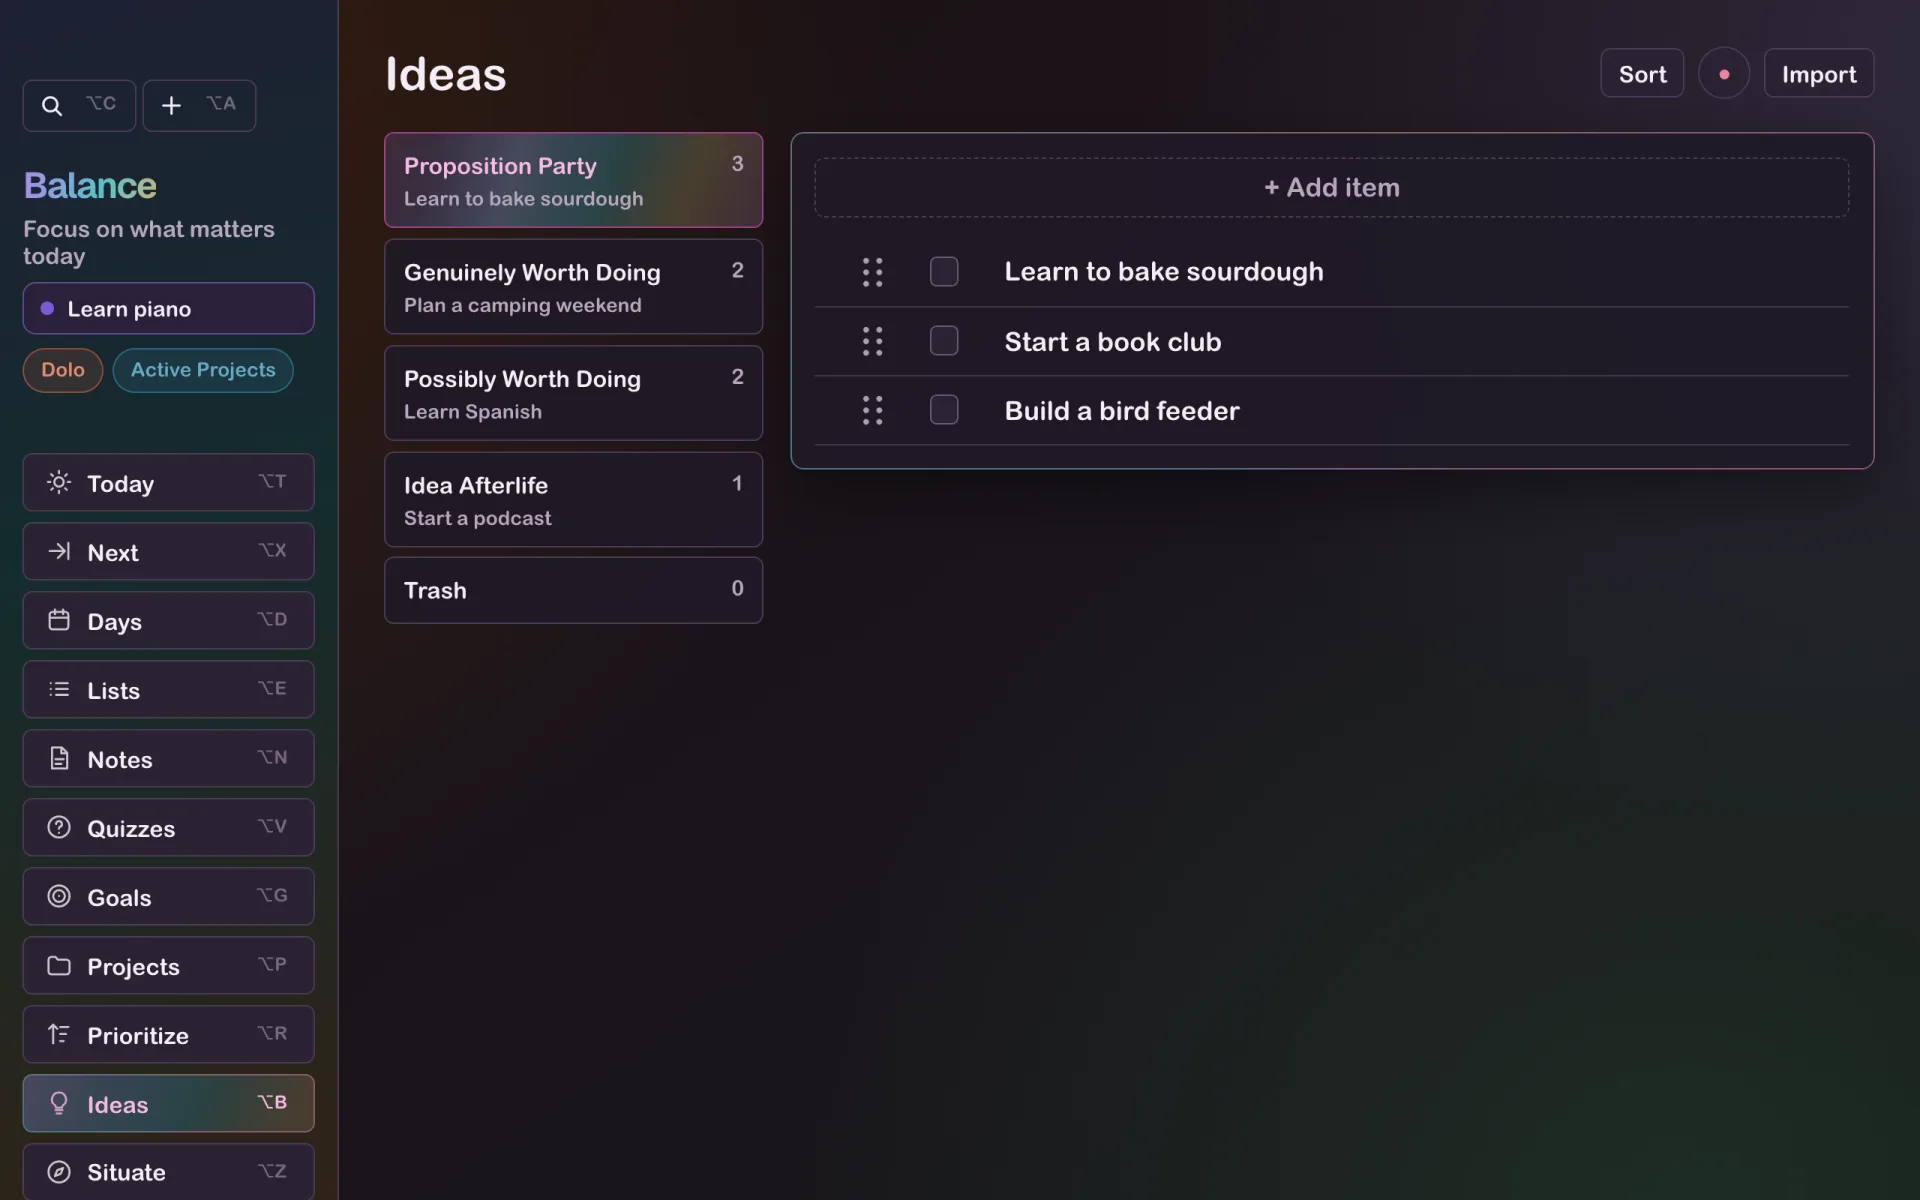
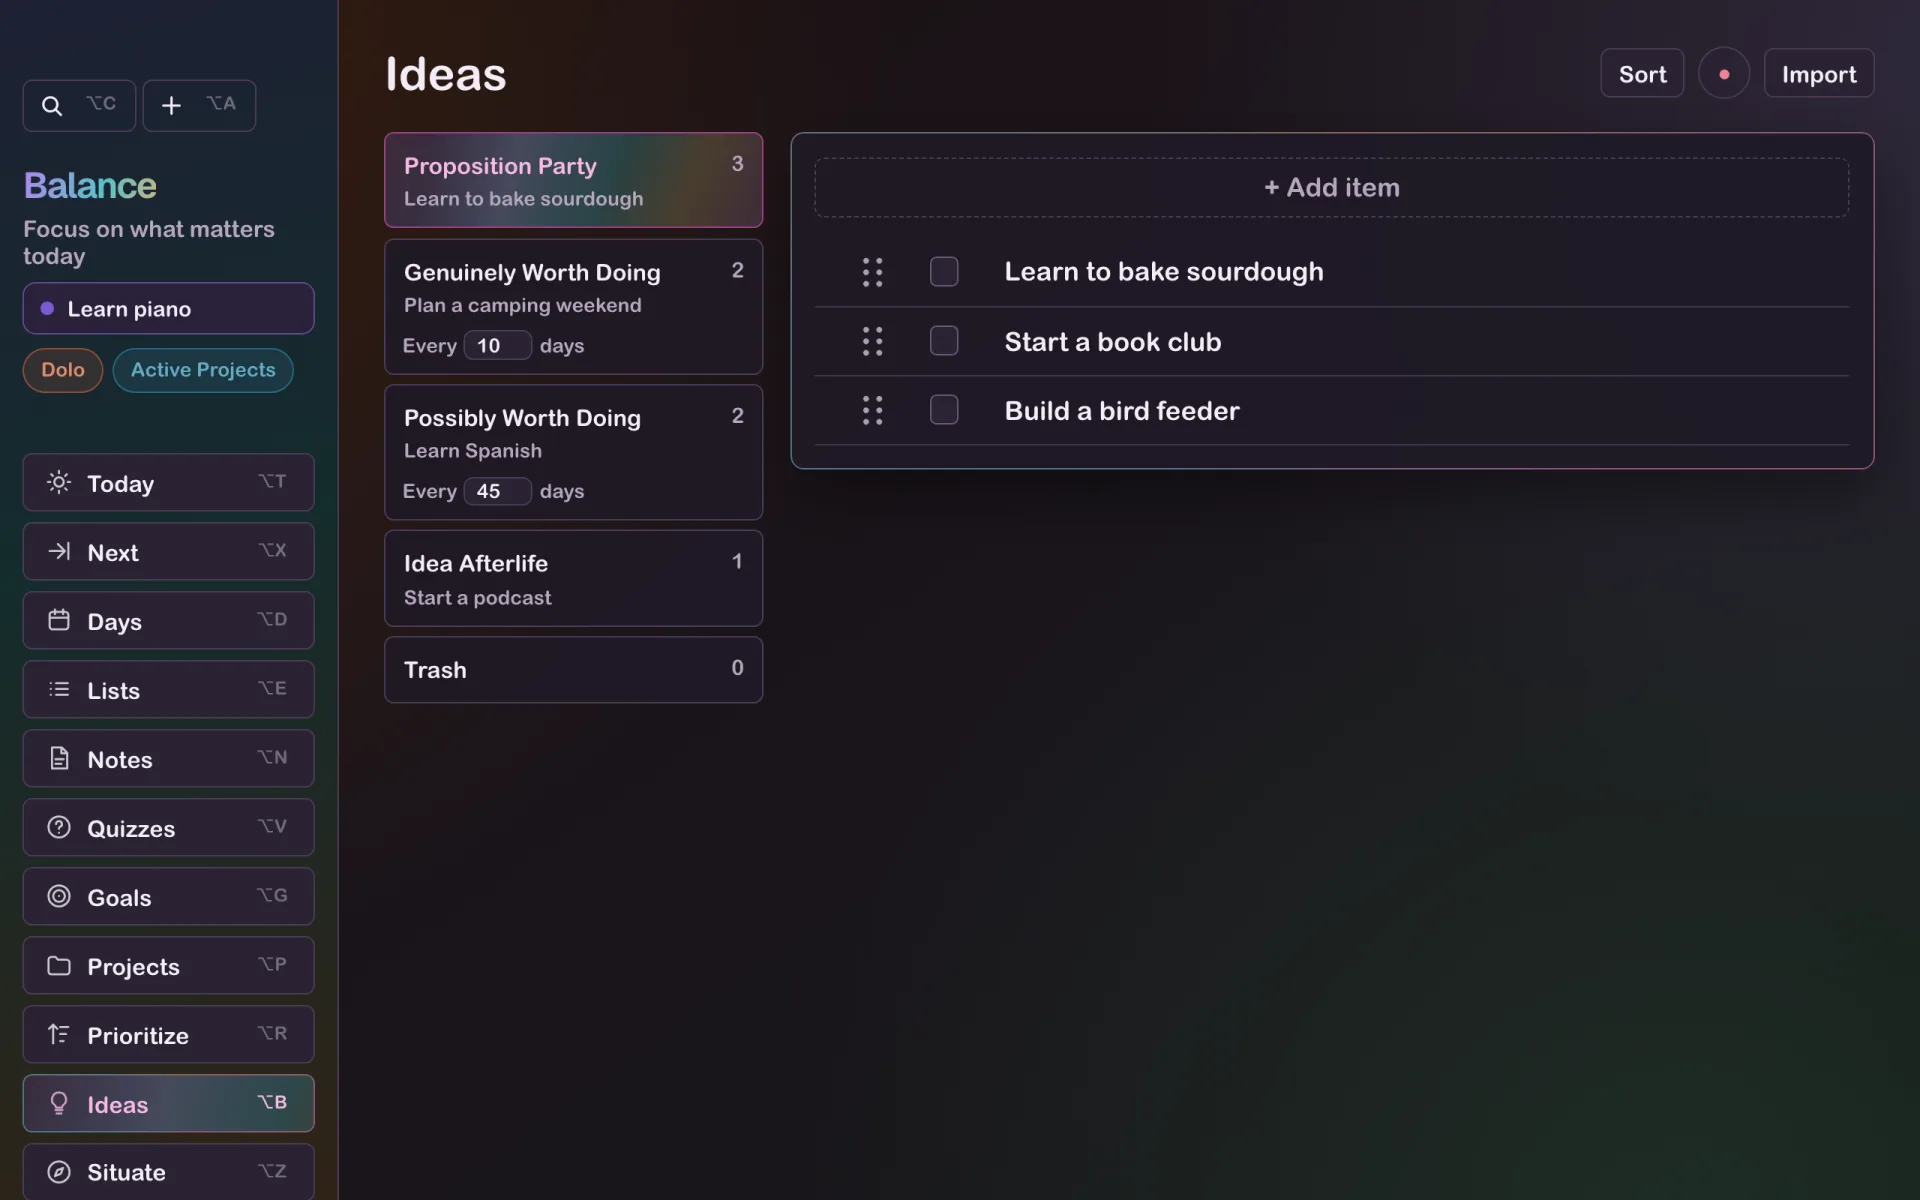
Set each scheduled idea review's cadence on its group card
Genuinely and Possibly Worth Doing cards carry an Every N days field
(1-365), stored as an optional reviewDays on the group record. Phones
show the open group's field in the page header, and the Review button
now reviews Possibly Worth Doing too.

diff --git a/src/lib/IdeasPanel.svelte b/src/lib/IdeasPanel.svelte
@@ -2,9 +2,10 @@
   import { onDestroy, tick } from 'svelte'
   import PlanItemEditor from './PlanItemEditor.svelte'
   import VoiceIdeaModal from './VoiceIdeaModal.svelte'
+  import IdeaReviewCadence from './IdeaReviewCadence.svelte'
   import { plannerStore } from './store'
   import { focusTaskBelow } from './taskCompletionFocus'
-  import { ideaUnlockDelay, findIdea, ideaGroupId, ideaGroupKindForKey, ideaGroupMeta, IDEA_GROUPS, IDEA_TRASH_RETENTION_DAYS } from './ideas'
+  import { ideaUnlockDelay, findIdea, ideaGroupId, ideaGroupKindForKey, ideaGroupMeta, IDEA_GROUPS, IDEA_TRASH_RETENTION_DAYS, scheduledIdeaReviewDefault, type ScheduledIdeaReviewKind } from './ideas'
   import type { ItemLink, ItemTimeWarning } from './planner'
   import { clipsByIdea, formatClipDuration } from './voiceClips'
   import { canChooseVoiceMic, cancelVoiceRecording, chooseVoiceMic, finishVoiceRecording, startVoiceRecording, voiceMic, voiceRecording, voiceRecordingError } from './voiceRecorder'
@@ -59,6 +60,11 @@
     meta.kind, groups.find((group) => group.kind === meta.kind) ?? { id: ideaGroupId(meta.kind), kind: meta.kind, items: [] },
   ])) as Record<IdeaGroupKind, IdeaGroup>
   $: activeMeta = ideaGroupMeta(activeGroup)
+  $: activeScheduled = scheduledKind(activeGroup)
+
+  function scheduledKind(kind: IdeaGroupKind): ScheduledIdeaReviewKind | null {
+    return scheduledIdeaReviewDefault(kind) === null ? null : kind as ScheduledIdeaReviewKind
+  }
   $: activeItems = groupsByKind[activeGroup].items
 
   function dropMissingSelection(current: IdeaGroup[]) {
@@ -240,7 +246,8 @@
     <div class="template-panel-actions">
       {#if activeGroup === 'proposition'}
         <button type="button" disabled={activeItems.length === 0} on:click={onSortPropositions}>Sort</button>
-      {:else if activeGroup === 'genuine'}
+      {:else if activeScheduled}
+        {#if mobile}<IdeaReviewCadence kind={activeScheduled} {groups} label={activeMeta.label} />{/if}
         <button type="button" on:click={onReview}>Review</button>
       {:else if activeGroup === 'trash'}
         <span class="idea-group-note">clears after {IDEA_TRASH_RETENTION_DAYS} days</span>
@@ -290,9 +297,12 @@
       {#each IDEA_GROUPS as meta (meta.kind)}
         {@const items = groupsByKind[meta.kind].items}
         {@const preview = items.find((item) => item.text.trim())?.text}
+        {@const scheduled = mobile ? null : scheduledKind(meta.kind)}
+        <div class="idea-group-slot">
         <button
           type="button"
           class="idea-group-card"
+          class:scheduled
           class:active={meta.kind === activeGroup}
           aria-current={meta.kind === activeGroup ? 'true' : undefined}
           data-idea-group={meta.kind}
@@ -304,6 +314,12 @@
           <span class="idea-group-count">{items.length}</span>
           {#if preview}<small>{preview}</small>{/if}
         </button>
+        <!-- A sibling, since inputs can't sit inside the card button; it
+             occupies the card's reserved bottom padding. -->
+        {#if scheduled}
+          <div class="idea-group-card-cadence"><IdeaReviewCadence kind={scheduled} {groups} label={meta.label} /></div>
+        {/if}
+        </div>
       {/each}
     </nav>
 
@@ -428,6 +444,13 @@
     padding: 10px 11px;
     text-align: left;
   }
+  .idea-group-slot { position: relative; }
+  .idea-group-card.scheduled { padding-bottom: 34px; }
+  .idea-group-card-cadence {
+    position: absolute;
+    left: 11px;
+    bottom: 9px;
+  }
   .idea-group-card:not(.active) {
     border-color: var(--line);
     background: var(--paper);
@@ -515,6 +538,7 @@
       background: var(--paper-strong);
       scrollbar-width: none;
     }
+    .idea-group-slot { display: flex; flex: 0 0 auto; }
     .idea-group-card {
       flex: 0 0 auto;
       width: auto;

diff --git a/tests/visual/ideas.spec.ts b/tests/visual/ideas.spec.ts
@@ -711,6 +711,36 @@ test('the Genuinely review button sorts every idea in the group', async ({ page 
   expect((await groups(page)).genuine).toEqual(['Synthetic later', 'Synthetic reviewed'])
 })
 
+test('each scheduled group sets its review cadence from its card', async ({ page }, testInfo) => {
+  // Phones show only the open group's cadence, in the page header.
+  const mobile = testInfo.project.name === 'mobile'
+  await open(page)
+  await storeCall(page, "plannerStore.addIdea('Synthetic keep', 'genuine')")
+  await openView(page, 'Ideas')
+  await expect(page.getByRole('spinbutton', { name: /review days/ })).toHaveCount(mobile ? 0 : 2)
+  if (mobile) await card(page, 'genuine').click()
+  else await expect(page.getByRole('spinbutton', { name: 'Possibly Worth Doing review days' })).toHaveValue('45')
+  const genuine = page.getByRole('spinbutton', { name: 'Genuinely Worth Doing review days' })
+  await expect(genuine).toHaveValue('10')
+  // Typing digits stays in the field instead of moving ideas.
+  await genuine.fill('3')
+  await genuine.press('Enter')
+  await expect(genuine).not.toBeFocused()
+  await genuine.fill('0')
+  await genuine.press('Tab')
+  await expect(genuine).toHaveValue('3')
+  await page.reload()
+  await expect(page.getByRole('region', { name: 'Daily plan' })).toBeVisible()
+  await openView(page, 'Ideas')
+  await expect(genuine).toHaveValue('3')
+
+  await page.clock.setSystemTime(new Date(NOW.getTime() + 3 * 24 * 60 * 60 * 1000))
+  await page.reload()
+  await expect(page.getByRole('region', { name: 'Daily plan' })).toBeVisible()
+  await generateDay(page)
+  await expect(sorter(page).locator('.idea-sort-intro')).toContainText('Every 3 days')
+})
+
 test('a due review blocks day generation until every older idea is sorted', async ({ page }, testInfo) => {
   test.skip(testInfo.project.name === 'mobile', 'Keyboard flow is covered on desktop')
   await open(page)

diff --git a/src/lib/IdeaReviewCadence.svelte b/src/lib/IdeaReviewCadence.svelte
@@ -1,0 +1,60 @@
+<script lang="ts">
+  import { ideaReviewDays, IDEA_REVIEW_MAX_DAYS, parseIdeaReviewDays, type ScheduledIdeaReviewKind } from './ideas'
+  import { plannerStore } from './store'
+  import type { IdeaGroup } from './types'
+
+  export let kind: ScheduledIdeaReviewKind
+  export let groups: IdeaGroup[]
+  export let label: string
+
+  $: days = ideaReviewDays(groups, kind)
+
+  // Invalid entries snap back to the saved cadence.
+  function commit(input: HTMLInputElement) {
+    const next = parseIdeaReviewDays(input.value)
+    if (next !== null && next !== days) plannerStore.setIdeaReviewDays(kind, next)
+    else input.value = String(days)
+  }
+
+  function handleKeydown(event: KeyboardEvent & { currentTarget: HTMLInputElement }) {
+    if (event.key !== 'Enter' && event.key !== 'Escape') return
+    event.preventDefault()
+    if (event.key === 'Escape') event.currentTarget.value = String(days)
+    event.currentTarget.blur()
+  }
+</script>
+
+<label class="idea-review-cadence" title="Scheduled review">
+  Every
+  <input
+    type="number"
+    inputmode="numeric"
+    min="1"
+    max={IDEA_REVIEW_MAX_DAYS}
+    step="1"
+    value={days}
+    aria-label={`${label} review days`}
+    on:change={(event) => commit(event.currentTarget)}
+    on:keydown={handleKeydown}
+  />
+  days
+</label>
+
+<style>
+  .idea-review-cadence {
+    display: inline-flex;
+    align-items: center;
+    gap: 4px;
+    color: var(--muted);
+    font-size: 12px;
+    white-space: nowrap;
+  }
+  .idea-review-cadence input {
+    width: 3.5em;
+    min-height: 0;
+    padding: 1px 4px;
+    font-size: 12px;
+    text-align: right;
+    font-variant-numeric: tabular-nums;
+  }
+</style>

diff --git a/src/lib/ideas.ts b/src/lib/ideas.ts
@@ -99,6 +99,22 @@ export const IDEA_REVIEW_SCHEDULE: readonly { kind: ScheduledIdeaReviewKind; day
   { kind: 'genuine', days: 10 },
   { kind: 'possible', days: 45 },
 ]
+export const IDEA_REVIEW_MAX_DAYS = 365
+
+export function scheduledIdeaReviewDefault(kind: IdeaGroupKind): number | null {
+  return IDEA_REVIEW_SCHEDULE.find((schedule) => schedule.kind === kind)?.days ?? null
+}
+
+// Whole days from 1 to a year, or null for anything else.
+export function parseIdeaReviewDays(value: unknown): number | null {
+  const days = typeof value === 'number' ? value : Number(String(value).trim())
+  return Number.isInteger(days) && days >= 1 && days <= IDEA_REVIEW_MAX_DAYS ? days : null
+}
+
+export function ideaReviewDays(groups: IdeaGroup[], kind: ScheduledIdeaReviewKind): number {
+  const stored = groups.find((group) => group.kind === kind)?.reviewDays
+  return parseIdeaReviewDays(stored) ?? scheduledIdeaReviewDefault(kind)!
+}
 
 export type DueIdeaReview = { kind: ScheduledIdeaReviewKind; days: number; items: IdeaItem[] }
 
@@ -111,7 +127,8 @@ function bucketedDay(item: IdeaItem): string {
 // last review. A review is due that many days later and covers every idea
 // placed before the due day; ideas sorted in since then wait for the next one.
 export function dueIdeaReviews(groups: IdeaGroup[], today = todayISO()): DueIdeaReview[] {
-  return IDEA_REVIEW_SCHEDULE.flatMap(({ kind, days }) => {
+  return IDEA_REVIEW_SCHEDULE.flatMap(({ kind }) => {
+    const days = ideaReviewDays(groups, kind)
     const items = ideaGroupItems(groups, kind)
     if (items.length === 0) return []
     const stampDays = items.map(bucketedDay)

diff --git a/website/public/docs/index.html b/website/public/docs/index.html
@@ -198,7 +198,7 @@
       <h2 id="ideas">Ideas</h2>
       <p>Capture ideas with <kbd>Alt</kbd>+<kbd>A</kbd>. They land in <strong>Proposition Party</strong>.</p>
       <p><strong>Sort</strong> asks one question per idea: worth the time and attention? Yes offers <strong>Genuinely Worth Doing</strong>, <strong>Possibly Worth Doing</strong>, <strong>Add to new note</strong> (N), which moves the idea and its nested items into a new note, or <strong>Cut</strong> (X), which puts it on the clipboard to paste anywhere. While a day is being generated, <strong>Add to day</strong> (D) puts it at the top of that day. <strong>Back</strong> (B) undoes the previous card. Others go to <strong>Idea Afterlife</strong> or <strong>Trash</strong>, which empties after 30 days.</p>
-      <p>Every 10 days for <strong>Genuinely Worth Doing</strong> and every 45 for <strong>Possibly Worth Doing</strong>, generating a day first sorts every idea in that group again with the same choices.</p>
+      <p>Every 10 days for <strong>Genuinely Worth Doing</strong> and every 45 for <strong>Possibly Worth Doing</strong>, generating a day first sorts every idea in that group again with the same choices. Change either cadence on its card.</p>
       <figure>
         <div class="mac"><div class="bar"><i></i><i></i><i></i></div><picture><source srcset="/images/mac-ideas-dark.webp" media="(prefers-color-scheme: dark)"><img src="/images/mac-ideas.webp" width="1920" height="1200" alt="Ideas" loading="lazy"></picture></div>
       </figure>

diff --git a/src/lib/store.ts b/src/lib/store.ts
@@ -161,7 +161,7 @@ import type {
 import { dayThemePreferenceKey, normalizeReplicatedPreferences } from './preferences'
 import { isNoteTrashExpired } from './noteTrash'
 import { copyNoteItemsWithNewIds, noteVersionGroupId } from './noteVersions'
-import { findIdea, ideaGroupId, IDEA_GROUP_KINDS, isIdeaTrashExpired } from './ideas'
+import { findIdea, ideaGroupId, IDEA_GROUP_KINDS, isIdeaTrashExpired, parseIdeaReviewDays, type ScheduledIdeaReviewKind } from './ideas'
 import { reconcileTaskNotifications } from './taskNotifications'
 import { reconcileVoiceClips } from './voiceClips'
 import { withListCompletionTime } from './listTiming'
@@ -2667,6 +2667,14 @@ function createPlannerStore() {
         return updateIdeaGroup(removed, previous.group.kind, (group) => ({ ...group, items: group.items.map((candidate) => candidate.id === previousId ? joined : candidate) }))
       })
       return merged
+    },
+
+    setIdeaReviewDays(kind: ScheduledIdeaReviewKind, value: number) {
+      const days = parseIdeaReviewDays(value)
+      if (days === null) return false
+      commitEntities('set_idea_review_days', { kind, days }, (state) =>
+        updateIdeaGroup(state, kind, (group) => group.reviewDays === days ? group : { ...group, reviewDays: days }))
+      return true
     },
 
     purgeExpiredIdeas(now = Date.now()) {

diff --git a/tests/unit/ideas.spec.ts b/tests/unit/ideas.spec.ts
@@ -3,6 +3,7 @@ import {
   ideaUnlockDelay,
   ideaGroupKindForKey,
   dueIdeaReviews,
+  parseIdeaReviewDays,
   isIdeaTrashExpired,
   parseIdeaImportText,
   IDEA_GROUPS,
@@ -76,6 +77,16 @@ test('Genuinely reviews come every 10 days and Possibly every 45, covering ideas
     ['genuine', ['Synthetic old', 'Synthetic newer']],
     ['possible', ['Synthetic maybe']],
   ])
+})
+
+test('a group cadence replaces its default; invalid cadences fall back', () => {
+  const genuine = [idea('Synthetic old', '2026-10-01T12:00:00')]
+  expect(due([{ id: 'g', kind: 'genuine', items: genuine, reviewDays: 3 }], '2026-10-04')).toEqual([['genuine', ['Synthetic old']]])
+  expect(due([{ id: 'g', kind: 'genuine', items: genuine, reviewDays: 3 }], '2026-10-03')).toEqual([])
+  expect(due([{ id: 'g', kind: 'genuine', items: genuine, reviewDays: 0 }], '2026-10-10')).toEqual([])
+  expect(due([{ id: 'g', kind: 'genuine', items: genuine, reviewDays: 0 }], '2026-10-11')).toEqual([['genuine', ['Synthetic old']]])
+  expect([parseIdeaReviewDays('14'), parseIdeaReviewDays(' 7 '), parseIdeaReviewDays('0'), parseIdeaReviewDays('2.5'), parseIdeaReviewDays('366'), parseIdeaReviewDays('')])
+    .toEqual([14, 7, null, null, null, null])
 })
 
 test('undated ideas are due for review at once and empty groups never are', () => {

diff --git a/src/App.svelte b/src/App.svelte
@@ -8189,7 +8189,7 @@ return rows`
         onSelectGroup={showIdeaGroup}
         onOpenLink={(link, itemId) => openLink(link, null)}
         onImport={() => (ideaImportOpen = true)}
-        onReview={() => { void startIdeaReview() }}
+        onReview={() => { void startIdeaReview(activeIdeaGroup === 'possible' ? 'possible' : 'genuine') }}
         onSortPropositions={sortPropositions}
         onCopyItem={(groupId, itemId) => copyIdeaFromMenu(groupId, itemId)}
         onCutItem={(groupId, itemId) => copyIdeaFromMenu(groupId, itemId, true)}

diff --git a/src/lib/types.ts b/src/lib/types.ts
@@ -407,6 +407,8 @@ export type IdeaGroup = {
   id: Id
   kind: IdeaGroupKind
   items: IdeaItem[]
+  // Days between scheduled reviews; absent uses the group's default.
+  reviewDays?: number
 }
 
 export type PrioritySession = {
